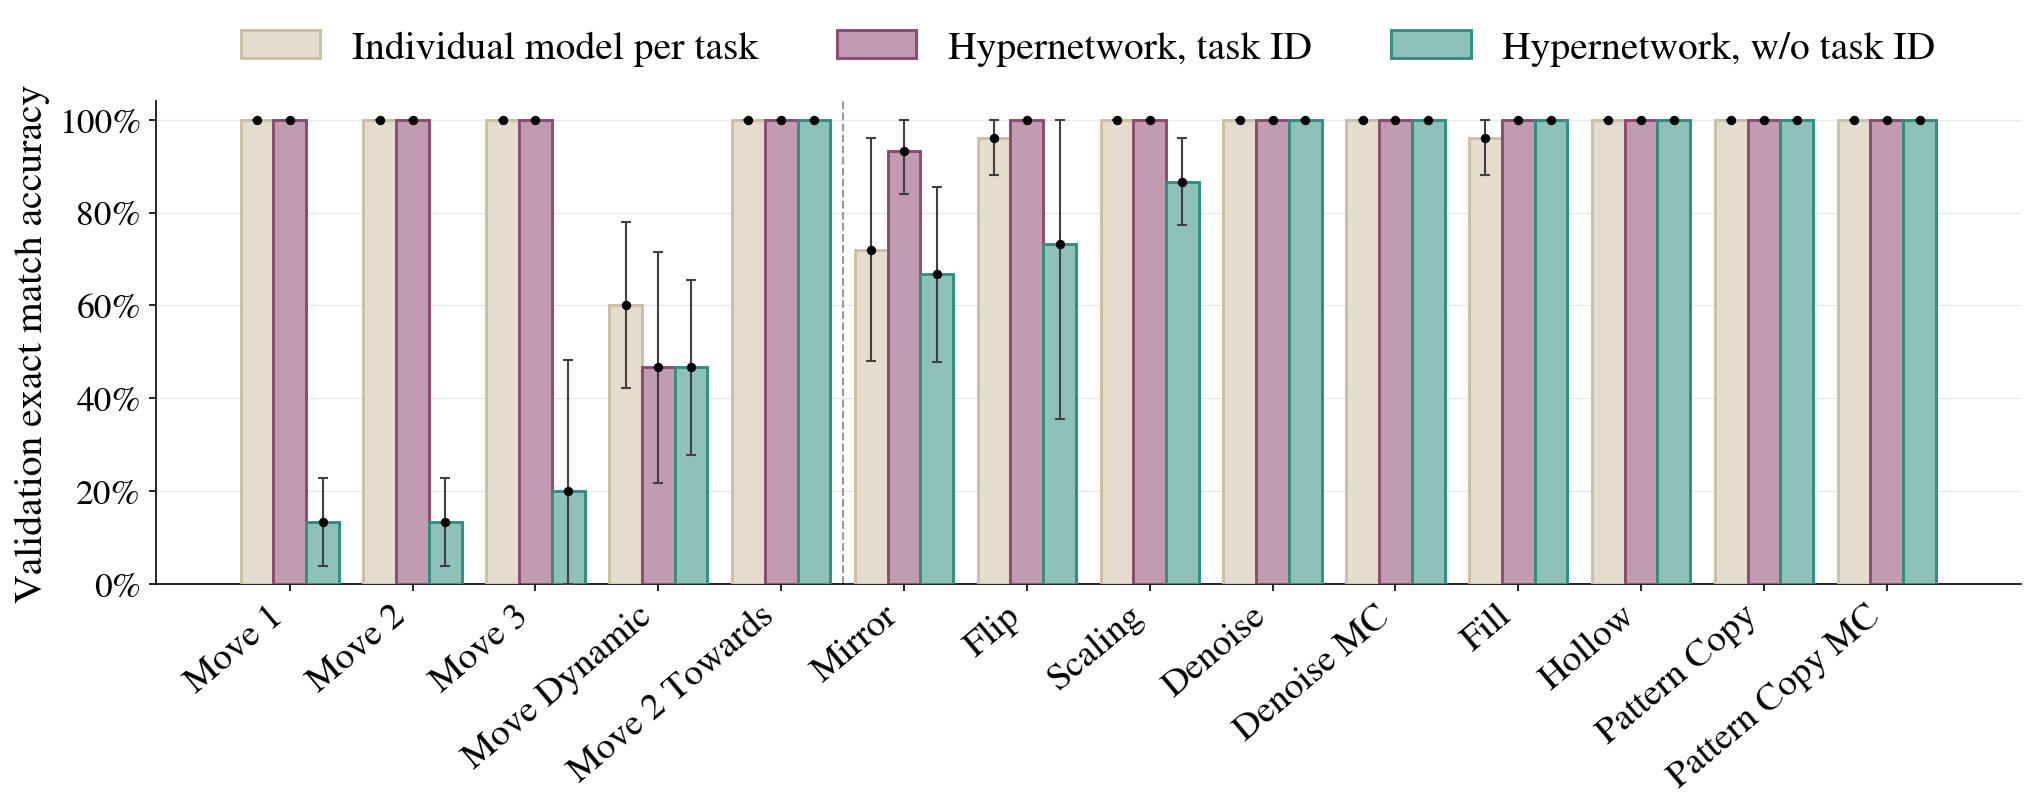
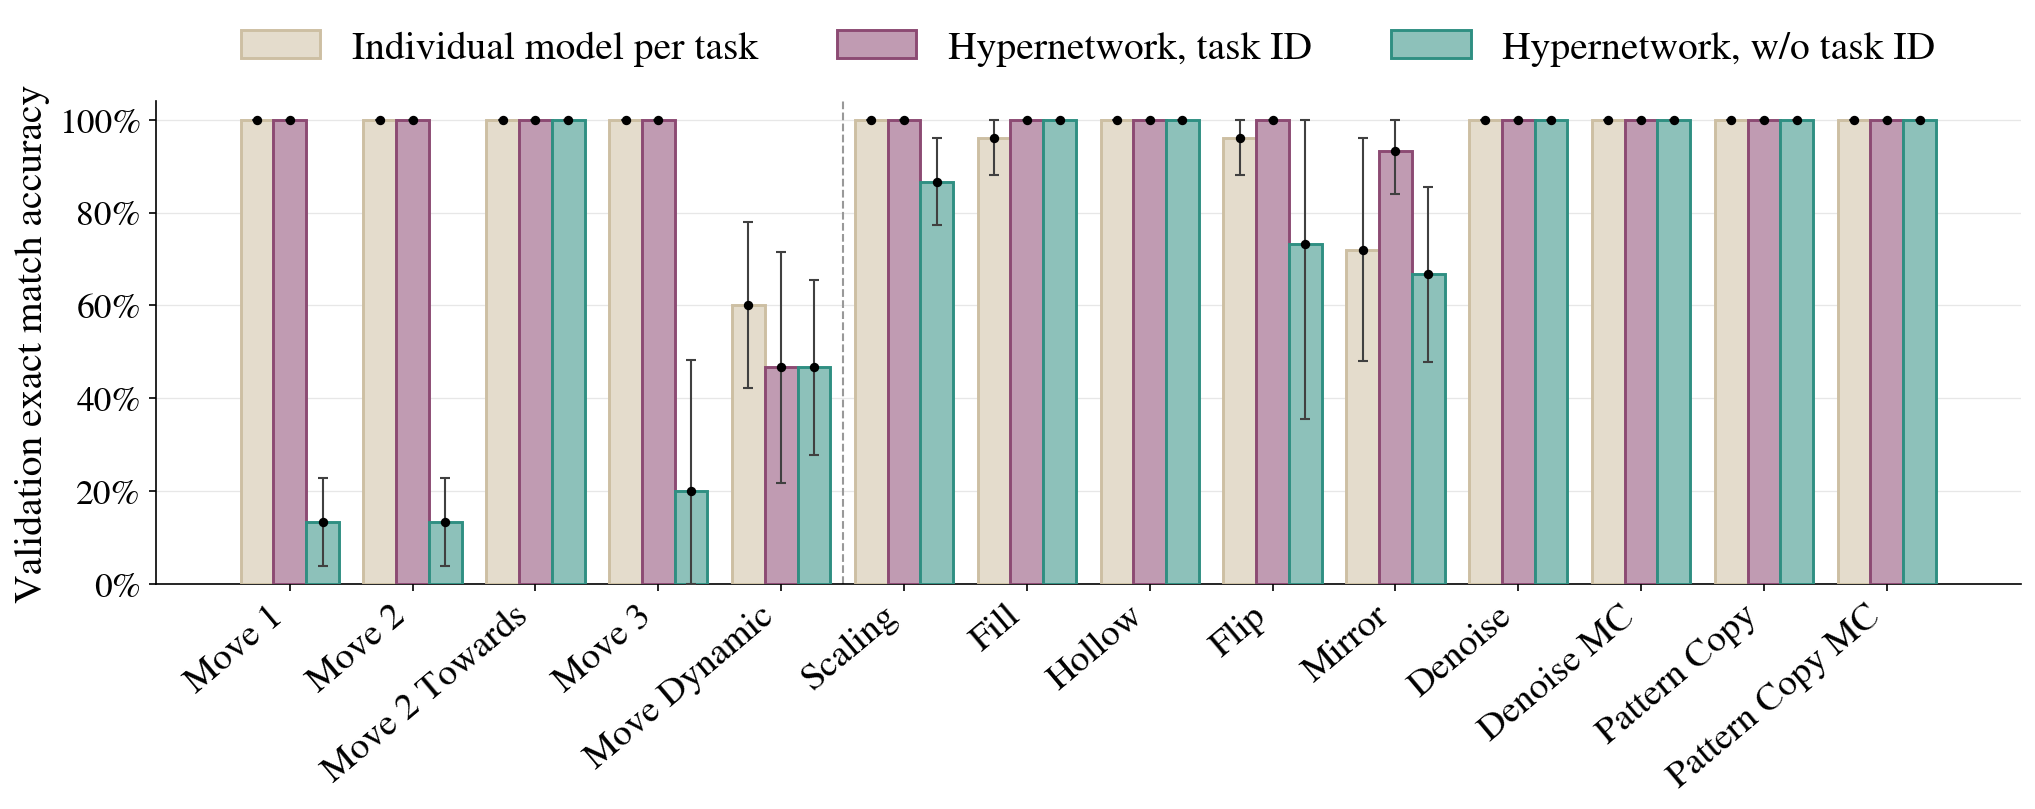
per_task_dim4/per_task_dim6: fixed family task order, matching the appendix
Both scripts previously sorted tasks by score (plus manual nudges in the
capacity-story script to keep related tasks adjacent), which put these two
figures and the appendix's task-example figures in three different orders.
Replaced with a shared fixed order -- Moves -> Transformations ->
Denoise/Copy -- matching the appendix's arc1d-movement-scale /
arc1d-object-transformations / arc1d-denoising-pcopy figure groupings
exactly, so the same task sits in the same relative position everywhere in
the paper.

arc1d_v2_multitask/plot_per_task.py: TASK_ORDER replaces the old
increasing-by-td sort + ORDER_OVERRIDES nudge hack (no longer needed with a
fully fixed order).
arc1d_v2_hypernetwork_multitask/plot_per_task.py: ordered_tasks() now reads
from TASK_ORDER instead of sorting by hyper_notd score; the move-family
divider line is untouched (still keyed off the narrower 5-task MOVE_TASKS
set, since that boundary marks where notd failures concentrate, not the
same grouping as the appendix's 6-task movement+scaling family).

diff --git a/configs/experiments/arc1d_v2_multitask/plot_per_task.py b/configs/experiments/arc1d_v2_multitask/plot_per_task.py
@@ -62,23 +62,18 @@ LABELS = {
 }
 CSV_FIELDS = ["condition", "dim", "task", "seed", "val_exact_match"]
 
-# Manual nudges on top of the increasing-by-td sort: keep related tasks
-# together even when their scores don't happen to land next to each other.
-# Each entry moves `task` to sit immediately after `anchor`.
-ORDER_OVERRIDES = [
-    ("1d_move_1p", "1d_move_2p"),  # Move 1 -> next to Move 2 (moves together)
-    ("1d_pcopy_mc", "1d_pcopy_1c"),  # Pattern Copy Multicolor -> next to Pattern Copy
+# Fixed family order (Moves -> Transformations -> Denoise/Copy), matching
+# the task-example figures in the appendix (arc1d-movement-scale /
+# arc1d-object-transformations / arc1d-denoising-pcopy) so the same task
+# always sits in the same relative position across every figure in the
+# paper -- replaces the old increasing-by-score sort (+ manual nudges to
+# keep related tasks adjacent), which put the two figures and the appendix
+# in three different orders.
+TASK_ORDER = [
+    "1d_move_1p", "1d_move_2p", "1d_move_2p_dp", "1d_move_3p", "1d_move_dp", "1d_scale_dp",
+    "1d_fill", "1d_hollow", "1d_flip", "1d_mirror",
+    "1d_denoising_1c", "1d_denoising_mc", "1d_pcopy_1c", "1d_pcopy_mc",
 ]
-
-
-def apply_order_overrides(tasks: list[str], overrides: list[tuple[str, str]]) -> list[str]:
-    tasks = list(tasks)
-    for task, anchor in overrides:
-        if task not in tasks or anchor not in tasks:
-            continue
-        tasks.remove(task)
-        tasks.insert(tasks.index(anchor) + 1, task)
-    return tasks
 
 
 # PAPER_FILL_COLORS is arc_paper's own precomputed lighten(..., 0.45) of
@@ -226,10 +221,7 @@ def plot(series: dict[str, dict[str, dict]], dim: str, out_path: Path) -> None:
         }
     )
 
-    # Increasing order on "Joint model with task ID" -- surfaces the
-    # failures on the left, the point of this chart.
-    tasks = sorted(series["td"], key=lambda t: series["td"][t]["mean"])
-    tasks = apply_order_overrides(tasks, ORDER_OVERRIDES)
+    tasks = [t for t in TASK_ORDER if t in series["td"]]
 
     n_tasks = len(tasks)
     conditions = ("individual", "td", "notd")

diff --git a/configs/experiments/arc1d_v2_hypernetwork_multitask/plot_per_task.py b/configs/experiments/arc1d_v2_hypernetwork_multitask/plot_per_task.py
@@ -78,11 +78,26 @@ def build_series(records: list[dict]) -> dict[str, dict[str, dict]]:
     return series
 
 
+# Fixed family order (Moves -> Transformations -> Denoise/Copy), matching
+# the task-example figures in the appendix (arc1d-movement-scale /
+# arc1d-object-transformations / arc1d-denoising-pcopy) so the same task
+# always sits in the same relative position across every figure in the
+# paper. Kept in sync by hand with the identically-named constant in
+# arc1d_v2_multitask/plot_per_task.py. Replaces the old
+# increasing-by-hyper_notd-score sort, which put the two figures and the
+# appendix in three different orders. The move-family divider line below
+# still uses MOVE_TASKS (5 tasks, excludes Scaling) -- that boundary marks
+# where the notd failures concentrate, a narrower and different grouping
+# from the appendix's "movement and scaling" family (6 tasks).
+TASK_ORDER = [
+    "1d_move_1p", "1d_move_2p", "1d_move_2p_dp", "1d_move_3p", "1d_move_dp", "1d_scale_dp",
+    "1d_fill", "1d_hollow", "1d_flip", "1d_mirror",
+    "1d_denoising_1c", "1d_denoising_mc", "1d_pcopy_1c", "1d_pcopy_mc",
+]
+
+
 def ordered_tasks(series: dict[str, dict[str, dict]]) -> list[str]:
-    all_tasks = sorted(series["hyper_notd"], key=lambda t: series["hyper_notd"][t]["mean"])
-    move = [t for t in all_tasks if t in MOVE_TASKS]
-    other = [t for t in all_tasks if t not in MOVE_TASKS]
-    return move + other
+    return [t for t in TASK_ORDER if t in series["hyper_notd"]]
 
 
 def plot(series: dict[str, dict[str, dict]], out_path: Path) -> None:
